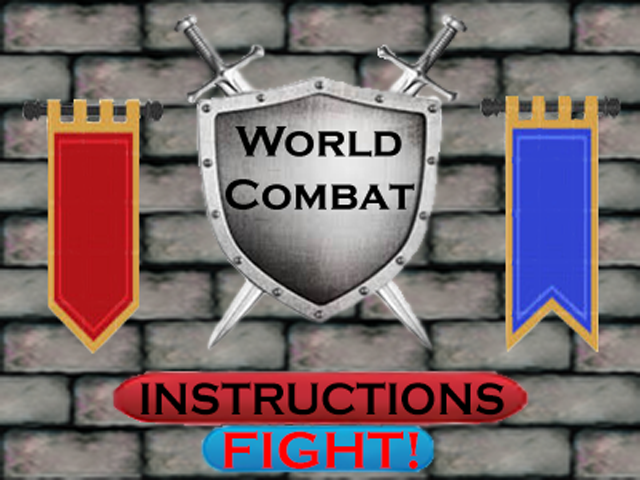
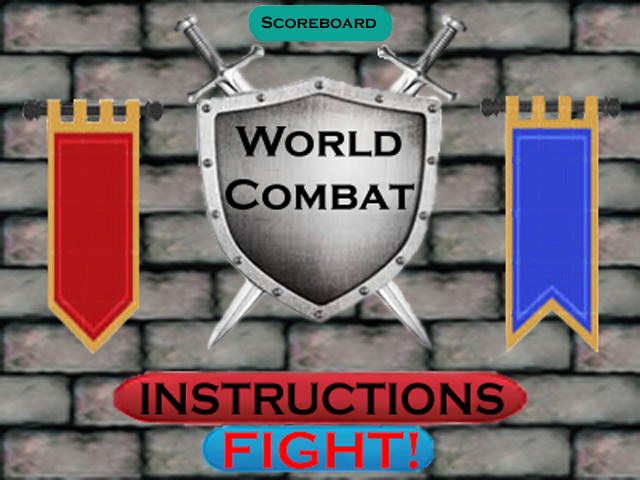
Cole's Commit

Changed region(s): [[0.375, 0.0, 0.625, 0.0938]]

diff --git a/src/Controller.py b/src/Controller.py
@@ -7,7 +7,9 @@ import DamagePowerUp
 import HealthPowerUp
 import Arrow
 import random
+
 class Controller:
+
     def __init__(self, width=640, height=480):
         pygame.init()
         self.width = width
@@ -16,111 +18,160 @@ class Controller:
         self.background = pygame.Surface(self.screen.get_size()).convert()
         pygame.font.init()
         self.Title = pygame.sprite.Group()
-        self.state = self.state = "GAME"
+        self.state = self.state = "MAIN"
 
-        if pygame.mouse.get_pressed() and pygame.mouse.get_pos() == x,y:
-            self.displayMainMenu()
-            if pygame.mouse.get_pressed() and pygame.mouse.get_pos() == x,y:
-                self.pickPlayerScreen()
-                if pygame.mouse.get_pressed() and pygame.mouse.get_pos() == x,y:
-                    self.player1 = player1.HighHealthFighter()
-                    self.player1Arrow = player1Arrow.Arrow()
-                    self.player2 = player2.HighDamageFighter()
-                    self.player2Arrow = player2Arrow.Arrow()
-                elif pygame.mouse.get_pressed() and pygame.mouse.get_pos() == x,y:
-                    self.player2 = player2.HighHealthFighter()
-                    self.player2Arrow = player2Arrow.Arrow()
-                    self.player1 = player1.HighDamageFighter()
-                    self.player1Arrow = player1Arrow.Arrow()
-
-        elif pygame.mouse.get_pressed() and pygame.mouse.get_pos() == x,y:
-            self.displayInstructions()
-            #lets the user go back to main menu From instruction screen
-            if pygame.mouse.get_pressed() and pygame.mouse.get_pos() == x,y:
-                self.displayMainMenu()
-
-        powerup = random.choice(["a","b"])
+        '''powerup = random.choice(["a","b"])
         if powerup == "a":
             self.healthPower = healthPower.HealthPowerUp()
         elif powerup == "b":
             self.DamagePower = DamagePower.DamagePowerUp()
-        self.state = "GAME"
-
-
+        self.state = "GAME"'''
 
     def mainLoop(self):
         while True:
-            if(self.state == "GAME"):
+            if(self.state == "MAIN"):
+                self.menuLoop()
+            elif(self.state == "INFO"):
+                self.instructionsLoop()
+            elif(self.state == "SELECT"):
+                self.SelectLoop()
+            elif(self.state == "SCORE"):
+                self.ScoreboardLoop()
+            elif(self.state == "GAME"):
                 self.gameLoop()
             elif(self.state == "GAMEOVER"):
                 self.gameOver()
-<<<<<<< HEAD
+    def printMouseCoordinates(self, position):
+        mouseFont = pygame.font.SysFont("Helvetica", 32)
+        mouseLabel = mouseFont.render(str(position),1,(0,255,255))
+        self.screen.blit(mouseLabel, (30,30))
    
+    def displayInstructions(self):
+        Instructions = pygame.image.load('assets\InstructionsScreen.png')
+        self.screen.blit(Instructions, (0,0))
+
     def displayMainMenu(self):
-        temp = pygame.image.load()
-        pygame.surface.blit(temp)
-   
-    def dislayInstructions(self):
-        temp = pygame.image.load()
-        pygame.surface.blit(temp)
-   
+        title = pygame.image.load('assets\TitleScreen.png')
+        self.screen.blit(title, (0,0))
+
     def pickPlayerScreen(self):
-=======
 
-    def displayMainMenu():
-        title = pygame.image.load('assets/titlescreen.png')
-        pygame.surface.blit()
-
-    def dislayInstructions():
-        temp = pygame.image.load(temp)
-        pygame.surface.blit()
-
-    def pickPlayerScreen():
->>>>>>> fa82f32f28c94b9ac80972a1678c822ea773b610
-        temp = pygame.image.load()
-        pygame.surface.blit(temp)
-
-    def gameLoop(self):
-<<<<<<< HEAD
-        """This is the Main Loop of the Game"""
+        Select = pygame.image.load('assets\SelectScreen.png')
+        self.screen.blit(Select, (0,0))
+    def GameScreen(self):
+        Background = pygame.image.load('assets\GameScreen.png')
+        self.screen.blit(Background, (0,0))
+    def ScoreScreen(self):
+        scoreBoard = pygame.image.load("assets\ScoreScreen.png")
+        self.screen.blit(scoreBoard, (0,0))
         
-=======
-          """This is the Main Loop of the Game"""
-
->>>>>>> fa82f32f28c94b9ac80972a1678c822ea773b610
-        #what is the point of this
-        pygame.key.set_repeat(1,50)
-
-        while self.state == "GAME":
-            pygame.surface.blit()
+    def menuLoop(self):
+        while self.state == "MAIN":
+            mouse = pygame.mouse.get_pos()
+            self.displayMainMenu()
+            pygame.display.update()
             for event in pygame.event.get():
                 if event.type == pygame.QUIT:
                     sys.exit()
-                elif(event.key == pygame.K_w):
-                    self.player1.jump()
-                elif(event.key == pygame.K_a):
-                    self.player1 .moveLeft()
-                elif(event.key == pygame.K_d):
-                    self.player1 .moveRight()
-                elif(event.key == pygame.K_UP):
-                    self.player2.jump()
-                elif(event.key == pygame.K_LEFT):
-                    self.player2.moveLeft()
-                elif(event.key == pygame.K_RIGHT):
-                    self.player2.moveRight()
-                elif(event.key == pygame.K_e):
-                    self.player1Arrow()
-                elif(event.key == pygame.K_RCTRL):
-                    self.player2Arrow()
+                if pygame.mouse.get_pressed():
+                    if (113+415 > mouse[0] > 113) and (375+45 > mouse[1] > 375):
+                    
+                        print('click')
+                        self.state = "INFO"
+                    elif (202+232 > mouse[0] > 202) and (428+40 > mouse[1] > 428):
+                    
+                        self.state = "SELECT"
+                    elif (249+142 > mouse[0] > 249) and (7+32 > mouse[1] > 7):
+                    
+                        self.state = "SCORE"
+    def instructionsLoop(self):
+        while self.state == "INFO":
+            mouse = pygame.mouse.get_pos()
+            self.displayInstructions()
+            pygame.display.update()
+            for event in pygame.event.get():
+                if event.type == pygame.QUIT:
+                    sys.exit()
+                if (19+143 > mouse[0] > 19) and (17+33 > mouse[1] > 17):
+                    if pygame.mouse.get_pressed():
+                        self.state = "MAIN"
+    def ScoreboardLoop(self):
+        while self.state == "SCORE":
+            mouse = pygame.mouse.get_pos()
+            self.ScoreScreen()
+            pygame.display.update()
+            for event in pygame.event.get():
+                if event.type == pygame.QUIT:
+                    sys.exit()
+                if (12+131 > mouse[0] > 12) and (435+32 > mouse[1] > 435):
+                    if pygame.mouse.get_pressed():
+                        self.state = "MAIN"
+    def SelectLoop(self):
+        while self.state == "SELECT":
+            mouse = pygame.mouse.get_pos()
+            self.pickPlayerScreen()
+            pygame.display.update()
+            for event in pygame.event.get():
+                if event.type == pygame.QUIT:
+                    sys.exit()
+                if 13 > mouse[0] > 153 and 21 > mouse[1] > 54:
+                    if pygame.mouse.get_pressed():
+                        self.state = "MAIN"
+                elif 128 > mouse[0] > 499 and 116 > mouse[1] > 196:
+                    if pygame.mouse.get_pressed():
+                        self.state = "GAME"
+                        self.player1 = player1.HighHealthFighter()
+                        self.player1Arrow = player1Arrow.Arrow()
+                        self.player2 = player2.HighDamageFighter()
+                        self.player2Arrow = player2Arrow.Arrow()
+                elif 128 > mouse[0] > 499 and 294 > mouse[1] > 376:
+                    if pygame.mouse.get_pressed():
+                        self.state = "GAME"
+                        self.player2 = player2.HighHealthFighter()
+                        self.player2Arrow = player2Arrow.Arrow()
+                        self.player1 = player1.HighDamageFighter()
+                        self.player1Arrow = player1Arrow.Arrow()
+
+                    
+    def gameLoop(self):
+        while self.state == "GAME":
+            self.GameScreen()
+            pygame.display.update()
+            for event in pygame.event.get():
+                if event.type == pygame.QUIT:
+                    sys.exit()
+                if event.type == pygame.KEYDOWN:
+                    
+                    if(event.key == pygame.K_w):
+                        self.player1.jump()
+                    elif(event.key == pygame.K_a):
+                        self.player1 .moveLeft()
+                    elif(event.key == pygame.K_d):
+                        self.player1 .moveRight()
+                    elif(event.key == pygame.K_UP):
+                        self.player2.jump()
+                    elif(event.key == pygame.K_LEFT):
+                        self.player2.moveLeft()
+                    elif(event.key == pygame.K_RIGHT):
+                        self.player2.moveRight()
+                    elif(event.key == pygame.K_e):
+                        self.player1Arrow()
+                    elif(event.key == pygame.K_m):
+                        self.player2Arrow()
 
             #check for collisions
 
-
-
-
+            #if player = arrow(part of group)(use sprite collide, group kill):
+                
+            ''' arrowgroup = pygame.sprite.group.add
+            arrowgroup.add(arrowobject)
+            checking for collisions, call pygame.sprite.spritecollide(player,arrowgroup,True<means the arrow is killed>)
+            iterate through the list for block_hit_list = collide for block in list: health -=1
+            for player collisions pygame.sprite.collide_rect()
+            '''
 
             #data permanance feature
-            timeRunning = font.render('time: '+ str(pygame.time.get_ticks()/1000), False, (250,0,0))
+            '''timeRunning = font.render('time: '+ str(pygame.time.get_ticks()/1000), False, (250,0,0))
             f = open("highscore.json", "r")
             highscoreDict = json.loads(f)
             scorelist = [highscoreDict.values()]
@@ -128,14 +179,15 @@ class Controller:
                 if timeRunning < i:
                     scoreList.append(timeRunning)
                     break
-            scoreList.sort()
+            scoreList.sort()'''
             
 
             """redraw screen"""
             self.screen.blit(self.background, (0, 0))
-            if(self.hero.health == 0):
-                self.state = "GAMEOVER"
+            '''if(self.hero.health == 0):
+                self.state = "GAMEOVER"'''
             pygame.display.flip()
+            
 
 
     def gameOver(self):
